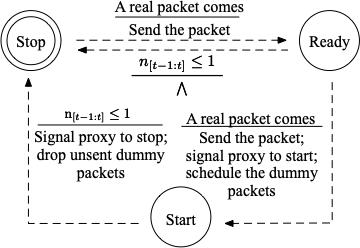
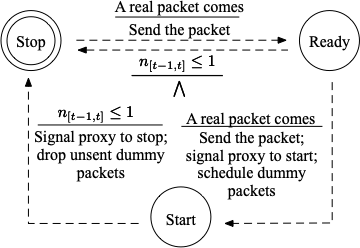
Minor revision for readme. Update pics in the readme

diff --git a/README.md b/README.md
@@ -7,7 +7,7 @@ It transforms the traffic between the client and the bridge according to a defen
 It makes use of the cryptographic system of obfs4 to do the handshake as well as to encrypt/decrypt the packets.
 The workflow of WFDefProxy is shown in the figure below:
 <div  align="center"> 
-<img src="./imgs/wfdefproxy.png" style="zoom:30%;" />
+<img src="./imgs/wfdefproxy.png" style="zoom:20%;" />
 </div>
 
 ## Table of Contents
@@ -135,9 +135,9 @@ The key modules for each transport:
 ### Finite State Machine
 Below are the state machines for three defenses on the client side (1.FRONT 2.Tamaraw 3.Random-WT).
 <div  align="center"> 
-<img src="./imgs/front-fsm.png" style="zoom:50%;" />
-<img src="./imgs/tamaraw-fsm.png" style="zoom:50%;" />
-<img src="./imgs/randomwt-fsm.png" style="zoom:50%;" />
+<img src="./imgs/front-fsm.png" style="zoom:33%;" />
+<img src="./imgs/tamaraw-fsm.png" style="zoom:33%;" />
+<img src="./imgs/randomwt-fsm.png" style="zoom:33%;" />
 </div>
 
 The start and end of a defense is controlled by a finite state machine, where a event will trigger some actions and state transition.
